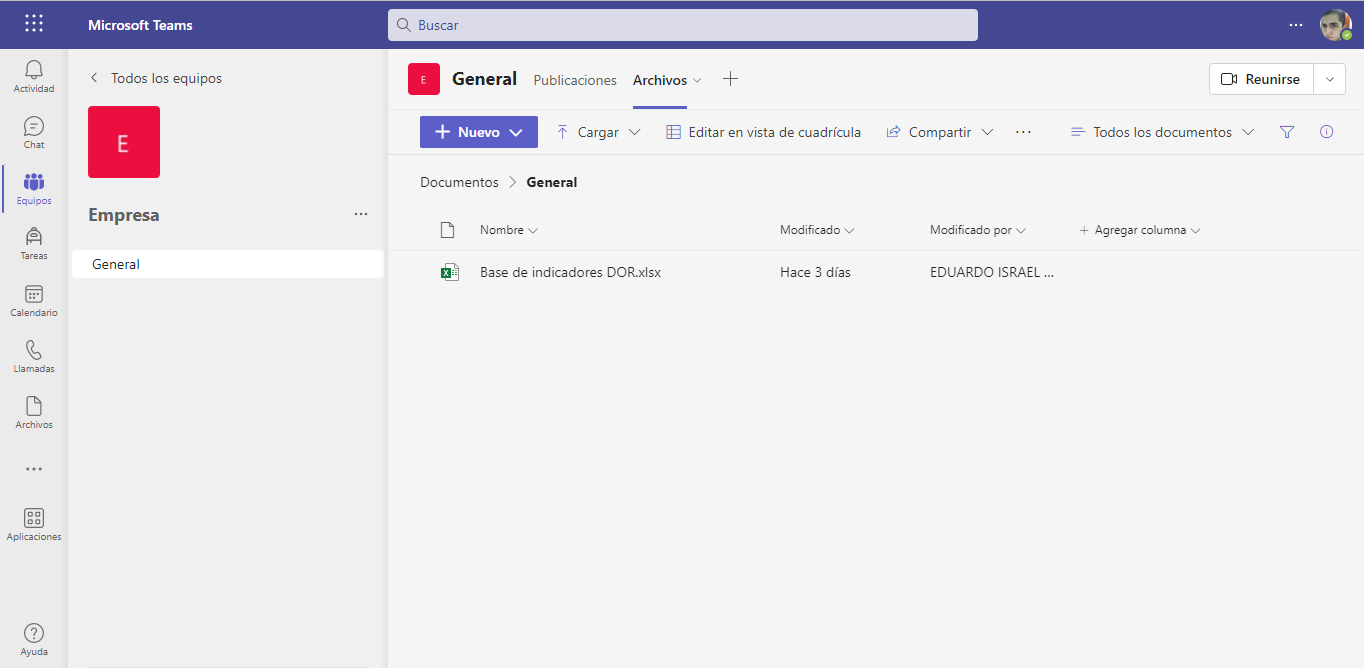
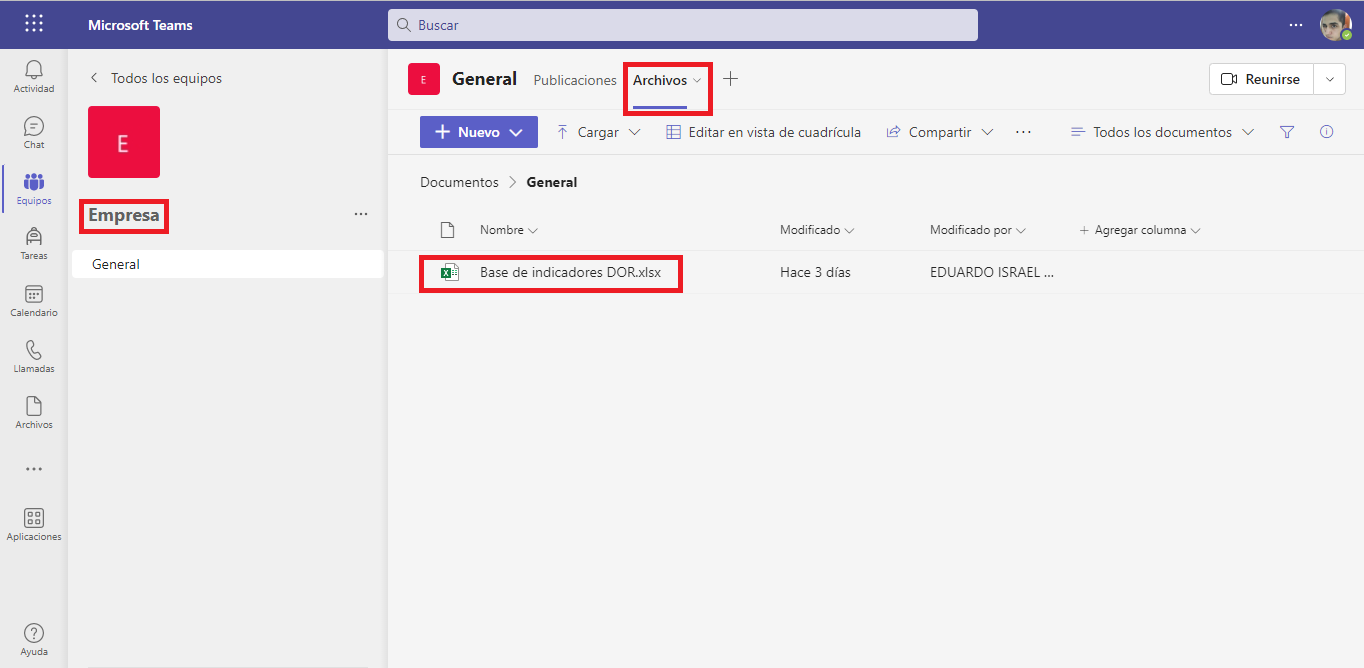
posts

diff --git a/content/posts/indicadores/ind2.md b/content/posts/indicadores/ind2.md
@@ -21,18 +21,28 @@ menu:
 
 <p align="justify">
     Se requiere un formato vertical (tablas) donde los encabezados son los que se toman en cuenta por Power BI para tomar los datos 
-    de toda esa columna y construir las visualizaciones que se requieran para el indicador.</p>
+    de toda la columna y construir las visualizaciones que se requieran para el indicador.</p>
 
 ***
 
-### Alojamiento
+### Alojamiento y conexión a Power BI
 
 <p align="justify">Existen diferentes maneras de alojar los datos de todas las distintas opciones que presenta Power BI y para 
     cada caso y disponibilidad se puede encontrar la mejor manera. Una de estas maneras es alojar un archivo Excel en un grupo de
     Teams que permita una conexión directa con Power BI, de manera que la automatización y presentación de los datos sea eficiente.</p>
 
 {{< vs 1 >}}
-{{< figure src="/posts/images/indicadores/ind2_2.png">}}
+{{< figure src="/posts/images/indicadores/ind2_1.png">}}
+
+<p align="justify">La conexión a Power BI se realiza por medio de un <strong>Origen Web</strong> debido al alojamiento 
+    previo del archivo Excel en Teams, siendo necesario obtener el path (ruta de acceso) del mismo. Este se encuentra en 
+    la parte de <strong>información</strong> del archivo, como se muestra en la siguiente imagen.</p>
+
+
+{{< vs 1 >}}
+{{< figure src="/posts/images/indicadores/ind2_3.png">}}
+
+> <p align="justify"><strong>Es necesario eliminar la parte final del path "?web=1" al momento de copiar la ruta en Power BI</strong></p>
 
 ***
 
